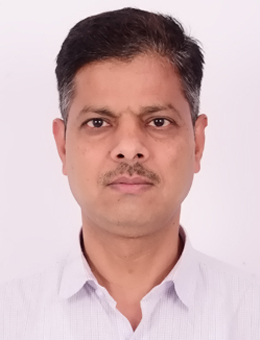
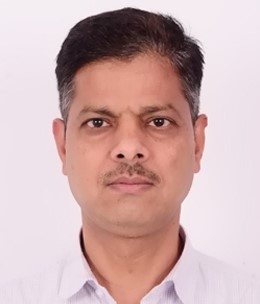
Updated pics

Changed region(s): [[0.1846, 0.0, 0.8, 1.0], [0.2769, 0.0296, 0.4615, 0.0888]]

diff --git a/commitee.html b/commitee.html
@@ -89,21 +89,21 @@
 
                 <li class="nav-item">
                     <a class="nav-link" href="#">
-                        Technical Committee
+                        Technical Program Committee
                     </a>
                 </li>
 
-                <li class="nav-item">
+                <!-- <li class="nav-item">
                     <a class="nav-link" href="#">
                         National Advisory Committee
                     </a>
-                </li>
+                </li> -->
 
-                <li class="nav-item">
+                <!-- <li class="nav-item">
                     <a class="nav-link" href="#">
                         Student Body
                     </a>
-                </li>
+                </li> -->
 
             </ul>
 
@@ -115,7 +115,7 @@
 
 <!-- COMMITTEE SECTION -->
 
-<div class="container mt-5">
+<div class="container committee-section">
 
     <!-- CHIEF PATRON -->
 
@@ -131,7 +131,7 @@
 
                 <div class="card-body">
 
-                    <img src="assets/directorNIT.jpg"
+                    <img src="assets/bj.jpg"
                         width="160"
                         height="160"
                         class="rounded-circle mb-3">
@@ -167,7 +167,7 @@
 
                 <div class="card-body">
 
-                    <img src="assets/DG.jpg"
+                    <img src="assets/Mayank-Dave.jpg.jpeg"
                         width="160"
                         height="160"
                         class="rounded-circle mb-3">
@@ -177,7 +177,7 @@
                     </h5>
 
                     <p>
-                        Professor, CS Dept. <br>
+                        Dean (FW) & Professor,<br> CS Dept. <br>
                         NIT Kurukshetra
                     </p>
 
@@ -197,7 +197,7 @@
 
                 <div class="card-body">
 
-                    <img src="assets/lalit.jpg"
+                    <img src="assets/arvind.jpg"
                         width="160"
                         height="160"
                         class="rounded-circle mb-3">
@@ -207,7 +207,7 @@
                     </h5>
 
                     <p>
-                        Associate Professor, ECE Dept. <br>
+                        Associate Professor and Head, <br> ECE Dept. <br>
                         NIT Kurukshetra
                     </p>
 
@@ -233,7 +233,7 @@
 
                 <div class="card-body">
 
-                    <img src="assets/rk3.jpg"
+                    <img src="assets/rajesh-kumar.jpg.jpeg"
                         width="160"
                         height="160"
                         class="rounded-circle mb-3">
@@ -268,7 +268,7 @@
 
                 <div class="card-body">
 
-                    <img src="assets/dilbagh.jpg"
+                    <img src="assets/pj.jpeg"
                         width="160"
                         height="160"
                         class="rounded-circle mb-3">
@@ -298,7 +298,7 @@
 
                 <div class="card-body">
 
-                    <img src="assets/ms.jpg"
+                    <img src="assets/karamdeep.jpg.jpeg"
                         width="160"
                         height="160"
                         class="rounded-circle mb-3">
@@ -308,7 +308,7 @@
                     </h5>
 
                     <p>
-                        Professor, ECE Dept. <br>
+                        Assistant Professor, ECE Dept. <br>
                         NIT Kurukshetra
                     </p>
 
@@ -328,7 +328,7 @@
 
                 <div class="card-body">
 
-                    <img src="assets/ms.jpg"
+                    <img src="assets/Hemant-Sharma.jpg.jpeg"
                         width="160"
                         height="160"
                         class="rounded-circle mb-3">
@@ -339,7 +339,7 @@
 
                     <p>
                         Assistant Professor, ECE Dept. <br>
-                        NIT Kurukshetra
+                        MNIT Jaipur
                     </p>
 
                 </div>
@@ -364,7 +364,7 @@
 
                 <div class="card-body">
 
-                    <img src="assets/ms.jpg"
+                    <img src="assets/Gnanupriya-Pic.png"
                         width="160"
                         height="160"
                         class="rounded-circle mb-3">
@@ -394,7 +394,7 @@
 
                 <div class="card-body">
 
-                    <img src="assets/ms.jpg"
+                    <img src="assets/Chandra-Prakash.jpg.jpeg"
                         width="160"
                         height="160"
                         class="rounded-circle mb-3">

diff --git a/styles.css b/styles.css
@@ -520,3 +520,19 @@ img:hover {
         box-shadow: 0 0 0 0 rgba(0, 255, 149, 0);
     }
 }
+
+.committee-section{
+
+    background: white;
+
+    padding: 40px 30px;
+
+    border-radius: 20px;
+
+    box-shadow:
+        0 4px 20px rgba(0,0,0,0.08);
+
+    margin-top: 40px;
+
+    margin-bottom: 50px;
+}